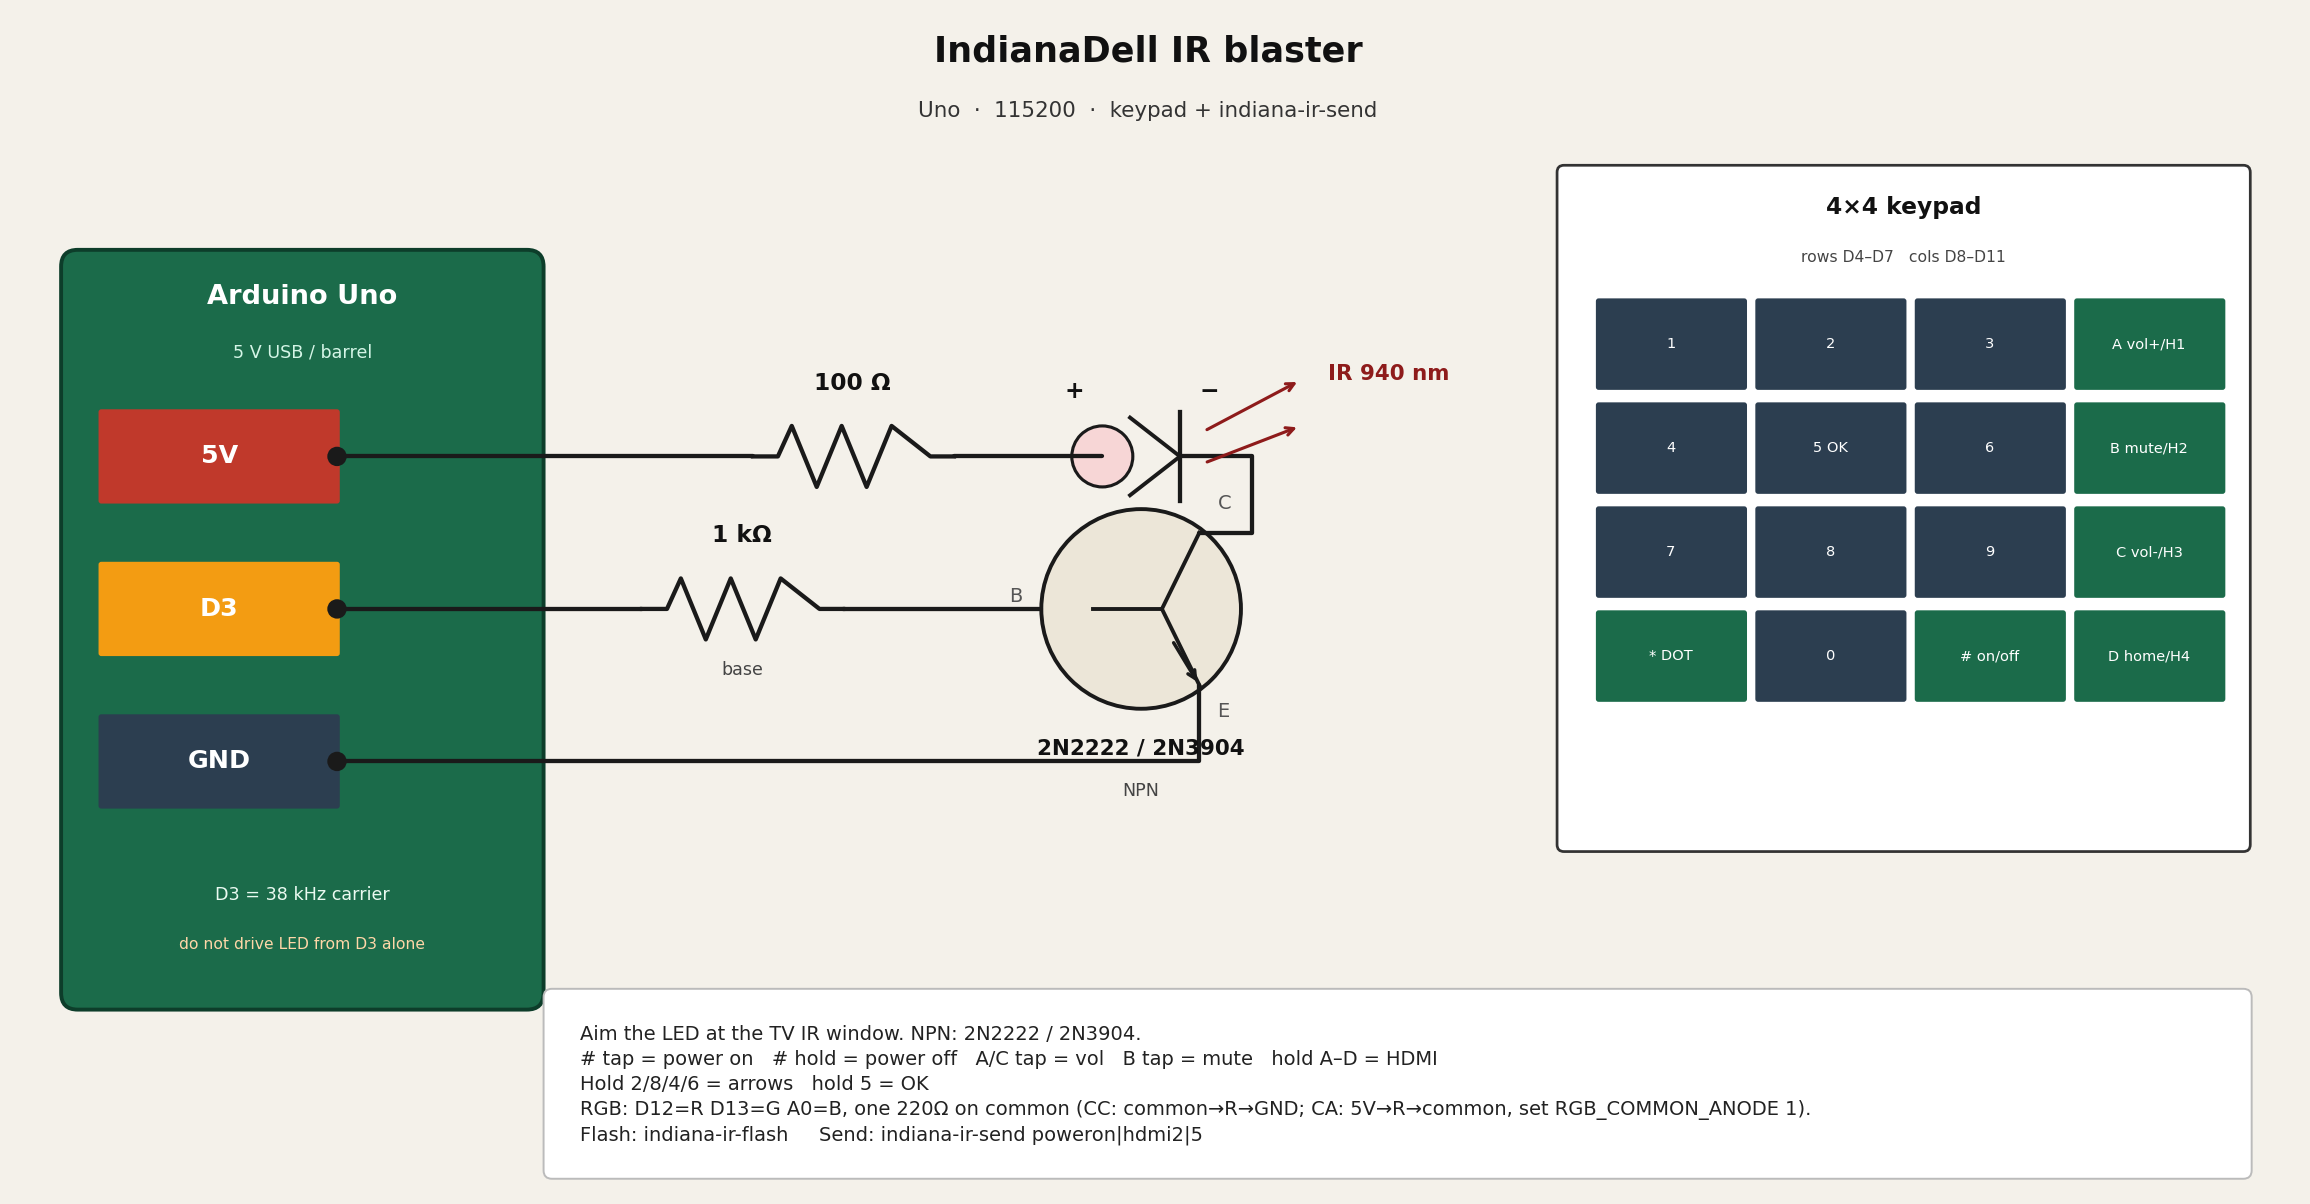
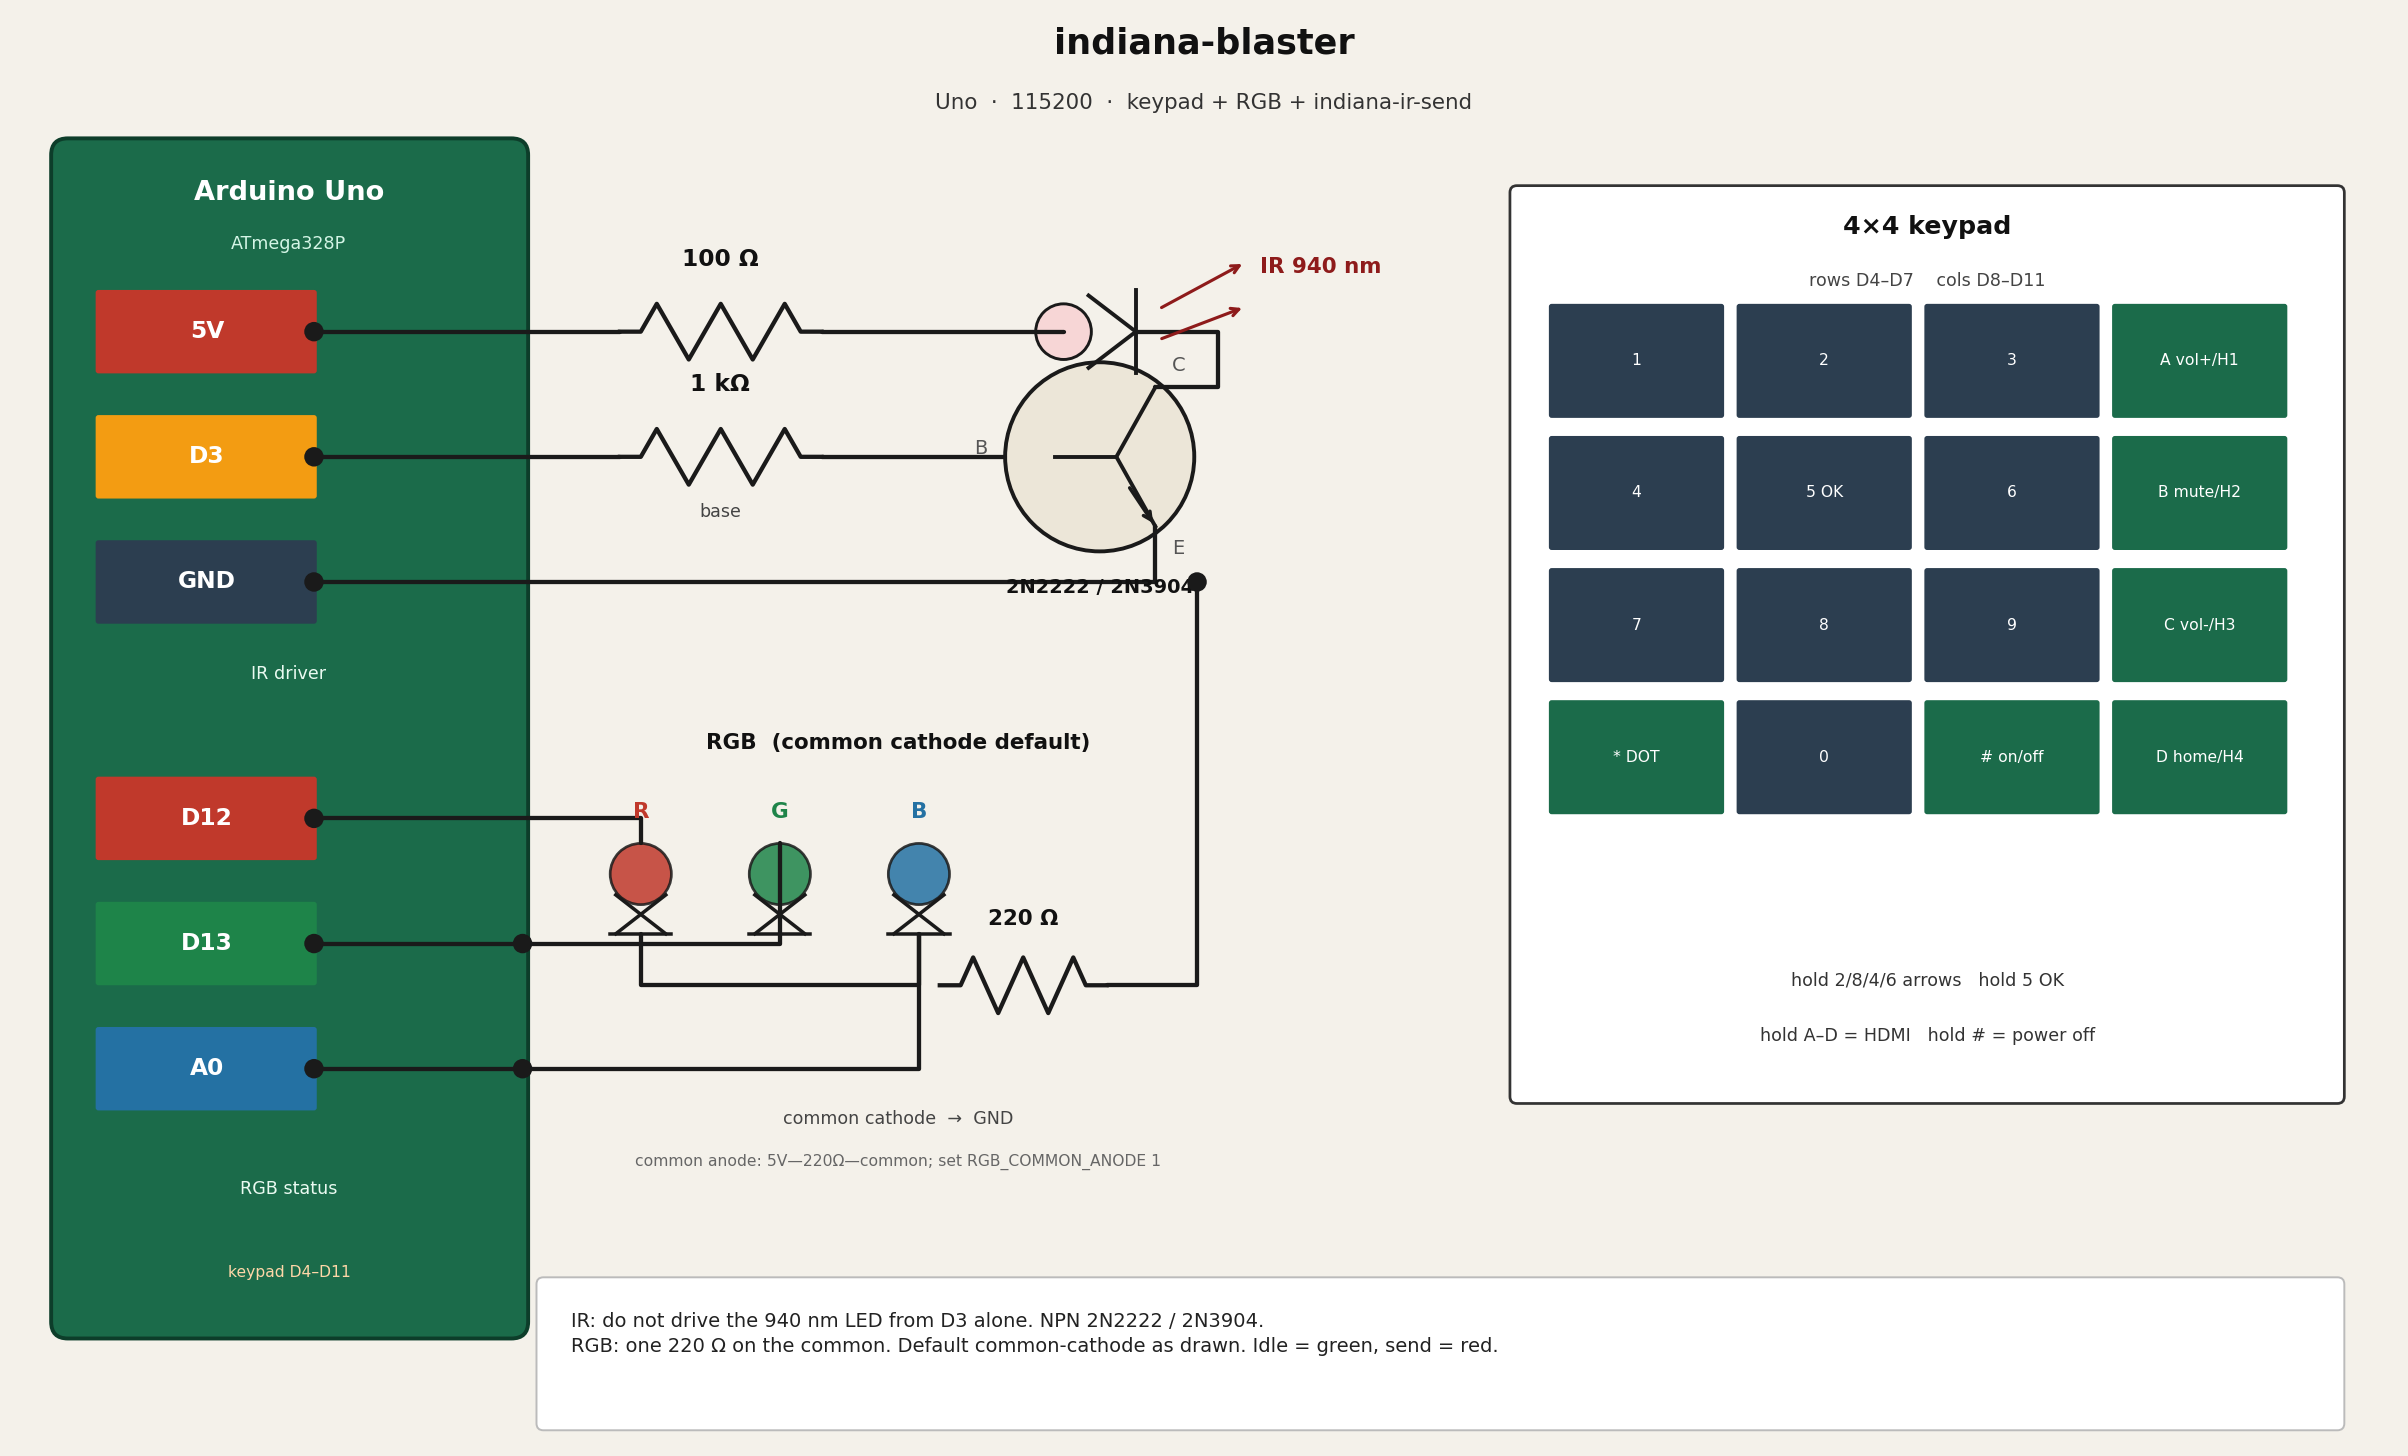
Draw RGB LED and 220 ohm common resistor on the schematic.
D12/D13/A0 to R/G/B, common cathode default.

diff --git a/ir-blaster/render-schematic.py b/ir-blaster/render-schematic.py
@@ -1,17 +1,16 @@
 #!/usr/bin/env python3
-"""Render ir-blaster-schematic.png (Uno + transistor IR LED)."""
+"""Render ir-blaster-schematic.png (IR LED + NPN, RGB, keypad)."""
 from pathlib import Path
 
 import matplotlib.pyplot as plt
-from matplotlib.patches import Circle, FancyBboxPatch, FancyArrowPatch, Rectangle
-from matplotlib.lines import Line2D
+from matplotlib.patches import Circle, FancyBboxPatch, Polygon, Rectangle
 
 OUT = Path(__file__).resolve().parent / "ir-blaster-schematic.png"
 
 
-def wire(ax, pts, **kw):
+def wire(ax, pts):
     xs, ys = zip(*pts)
-    ax.plot(xs, ys, color="#1a1a1a", lw=2.2, solid_capstyle="round", **kw)
+    ax.plot(xs, ys, color="#1a1a1a", lw=2.2, solid_capstyle="round", zorder=2)
 
 
 def node(ax, x, y):
@@ -25,127 +24,139 @@ def label(ax, x, y, text, **kw):
     ax.text(x, y, text, **kw)
 
 
+def zigzag(ax, x, y, n=5, w=1.45):
+    xs, ys = [x, x + 0.15], [y, y]
+    step = (w - 0.3) / n
+    for i in range(n):
+        xs.append(x + 0.15 + step * (i + 0.5))
+        ys.append(y + (0.2 if i % 2 == 0 else -0.2))
+    xs += [x + w - 0.15, x + w]
+    ys += [y, y]
+    ax.plot(xs, ys, color="#1a1a1a", lw=2.2)
+
+
+def pin(ax, x, y, name, col):
+    ax.add_patch(FancyBboxPatch((x - 0.4, y - 0.28), 1.55, 0.56, boxstyle="round,pad=0.02", fc=col, ec="none"))
+    label(ax, x + 0.38, y, name, ha="center", va="center", color="white", fontsize=12, fontweight="bold")
+    return x + 1.15, y
+
+
 def main():
-    fig, ax = plt.subplots(figsize=(16.5, 8.6), dpi=140)
-    ax.set_xlim(0, 16.5)
-    ax.set_ylim(0, 8.6)
+    fig, ax = plt.subplots(figsize=(17.2, 10.4), dpi=140)
+    ax.set_xlim(0, 17.2)
+    ax.set_ylim(0, 10.4)
     ax.set_aspect("equal")
     ax.axis("off")
     fig.patch.set_facecolor("#f4f1ea")
     ax.set_facecolor("#f4f1ea")
 
-    # Uno board
-    uno = FancyBboxPatch(
-        (0.4, 1.4),
-        3.4,
-        5.4,
-        boxstyle="round,pad=0.04,rounding_size=0.12",
-        facecolor="#1b6b4a",
-        edgecolor="#0d3d2a",
-        lw=2,
+    ax.add_patch(
+        FancyBboxPatch(
+            (0.35, 0.85),
+            3.35,
+            8.55,
+            boxstyle="round,pad=0.04,rounding_size=0.12",
+            facecolor="#1b6b4a",
+            edgecolor="#0d3d2a",
+            lw=2,
+        )
     )
-    ax.add_patch(uno)
-    label(ax, 2.1, 6.5, "Arduino Uno", ha="center", va="center", color="white", fontsize=14, fontweight="bold")
-    label(ax, 2.1, 6.1, "5 V USB / barrel", ha="center", va="center", color="#d4f5e6", fontsize=9)
+    label(ax, 2.02, 9.05, "Arduino Uno", ha="center", va="center", color="white", fontsize=14, fontweight="bold")
+    label(ax, 2.02, 8.68, "ATmega328P", ha="center", va="center", color="#d4f5e6", fontsize=9)
 
-    # Pin blocks
-    pins = [
-        (1.1, 5.35, "5V", "#c0392b"),
-        (1.1, 4.25, "D3", "#f39c12"),
-        (1.1, 3.15, "GND", "#2c3e50"),
-    ]
-    for x, y, name, col in pins:
-        ax.add_patch(FancyBboxPatch((x - 0.45, y - 0.32), 1.7, 0.64, boxstyle="round,pad=0.02", fc=col, ec="none"))
-        label(ax, x + 0.4, y, name, ha="center", va="center", color="white", fontsize=13, fontweight="bold")
+    p5v = pin(ax, 1.05, 8.05, "5V", "#c0392b")
+    pd3 = pin(ax, 1.05, 7.15, "D3", "#f39c12")
+    pgnd = pin(ax, 1.05, 6.25, "GND", "#2c3e50")
+    pr = pin(ax, 1.05, 4.55, "D12", "#c0392b")
+    pg = pin(ax, 1.05, 3.65, "D13", "#1e8449")
+    pb = pin(ax, 1.05, 2.75, "A0", "#2471a3")
+    node(ax, p5v[0], p5v[1])
+    node(ax, pd3[0], pd3[1])
+    node(ax, pgnd[0], pgnd[1])
+    node(ax, pr[0], pr[1])
+    node(ax, pg[0], pg[1])
+    node(ax, pb[0], pb[1])
+    label(ax, 2.02, 5.55, "IR driver", ha="center", color="#eafaf1", fontsize=9)
+    label(ax, 2.02, 1.85, "RGB status", ha="center", color="#eafaf1", fontsize=9)
+    label(ax, 2.02, 1.25, "keypad D4–D11", ha="center", color="#ffd7a8", fontsize=8)
 
-    label(ax, 2.1, 2.15, "D3 = 38 kHz carrier", ha="center", color="#eafaf1", fontsize=9)
-    label(ax, 2.1, 1.8, "do not drive LED from D3 alone", ha="center", color="#ffd7a8", fontsize=8)
+    # --- IR: 100Ω, LED, NPN ---
+    zigzag(ax, 4.4, 8.05)
+    label(ax, 5.12, 8.52, "100 Ω", ha="center", fontsize=12, fontweight="bold")
+    zigzag(ax, 4.4, 7.15)
+    label(ax, 5.12, 7.62, "1 kΩ", ha="center", fontsize=12, fontweight="bold")
+    label(ax, 5.12, 6.72, "base", ha="center", fontsize=9, color="#444")
 
-    # 1k base resistor (zigzag)
-    rx, ry = 4.55, 4.25
-    zig_x = [rx, rx + 0.18]
-    zig_y = [ry, ry]
-    for i in range(5):
-        zig_x.append(rx + 0.28 + i * 0.18)
-        zig_y.append(ry + (0.22 if i % 2 == 0 else -0.22))
-    zig_x += [rx + 1.28, rx + 1.45]
-    zig_y += [ry, ry]
-    ax.plot(zig_x, zig_y, color="#1a1a1a", lw=2.2)
-    label(ax, rx + 0.72, ry + 0.48, "1 kΩ", ha="center", fontsize=12, fontweight="bold")
-    label(ax, rx + 0.72, ry - 0.48, "base", ha="center", fontsize=9, color="#444")
-
-    # 100 ohm collector resistor
-    rx2, ry2 = 5.35, 5.35
-    zig_x = [rx2, rx2 + 0.18]
-    zig_y = [ry2, ry2]
-    for i in range(5):
-        zig_x.append(rx2 + 0.28 + i * 0.18)
-        zig_y.append(ry2 + (0.22 if i % 2 == 0 else -0.22))
-    zig_x += [rx2 + 1.28, rx2 + 1.45]
-    zig_y += [ry2, ry2]
-    ax.plot(zig_x, zig_y, color="#1a1a1a", lw=2.2)
-    label(ax, rx2 + 0.72, ry2 + 0.48, "100 Ω", ha="center", fontsize=12, fontweight="bold")
-
-    # Transistor 2N2222
-    tx, ty = 8.15, 4.25
-    ax.add_patch(Circle((tx, ty), 0.72, fc="#ece6d8", ec="#1a1a1a", lw=2))
-    # emitter / collector / base legs inside
-    ax.plot([tx - 0.35, tx + 0.15], [ty, ty], color="#1a1a1a", lw=2)
-    ax.plot([tx + 0.15, tx + 0.42], [ty, ty + 0.55], color="#1a1a1a", lw=2)
-    ax.plot([tx + 0.15, tx + 0.42], [ty, ty - 0.55], color="#1a1a1a", lw=2)
-    # emitter arrow
+    tx, ty = 7.85, 7.15
+    ax.add_patch(Circle((tx, ty), 0.68, fc="#ece6d8", ec="#1a1a1a", lw=2))
+    ax.plot([tx - 0.32, tx + 0.12], [ty, ty], color="#1a1a1a", lw=2)
+    ax.plot([tx + 0.12, tx + 0.4], [ty, ty + 0.5], color="#1a1a1a", lw=2)
+    ax.plot([tx + 0.12, tx + 0.4], [ty, ty - 0.5], color="#1a1a1a", lw=2)
     ax.annotate(
         "",
-        xy=(tx + 0.42, ty - 0.55),
-        xytext=(tx + 0.22, ty - 0.22),
+        xy=(tx + 0.4, ty - 0.5),
+        xytext=(tx + 0.2, ty - 0.2),
         arrowprops=dict(arrowstyle="->", color="#1a1a1a", lw=1.8),
     )
-    label(ax, tx, ty - 1.05, "2N2222 / 2N3904", ha="center", fontsize=11, fontweight="bold")
-    label(ax, tx, ty - 1.35, "NPN", ha="center", fontsize=9, color="#444")
-    label(ax, tx - 0.95, ty + 0.05, "B", fontsize=10, color="#555")
-    label(ax, tx + 0.55, ty + 0.72, "C", fontsize=10, color="#555")
-    label(ax, tx + 0.55, ty - 0.78, "E", fontsize=10, color="#555")
+    label(ax, tx, ty - 0.98, "2N2222 / 2N3904", ha="center", fontsize=10, fontweight="bold")
+    label(ax, tx - 0.9, ty + 0.02, "B", fontsize=10, color="#555")
+    label(ax, tx + 0.52, ty + 0.62, "C", fontsize=10, color="#555")
+    label(ax, tx + 0.52, ty - 0.7, "E", fontsize=10, color="#555")
 
-    # IR LED
-    lx, ly = 8.15, 5.35
-    ax.add_patch(Circle((lx - 0.28, ly), 0.22, fc="#f7d6d6", ec="#1a1a1a", lw=1.6))
-    ax.plot([lx - 0.08, lx + 0.28], [ly + 0.28, ly], color="#1a1a1a", lw=2)
-    ax.plot([lx - 0.08, lx + 0.28], [ly - 0.28, ly], color="#1a1a1a", lw=2)
-    ax.plot([lx + 0.28, lx + 0.28], [ly - 0.32, ly + 0.32], color="#1a1a1a", lw=2.2)
-    # IR arrows
-    ax.annotate("", xy=(lx + 1.15, ly + 0.55), xytext=(lx + 0.45, ly + 0.18),
+    lx, ly = 7.85, 8.05
+    ax.add_patch(Circle((lx - 0.26, ly), 0.2, fc="#f7d6d6", ec="#1a1a1a", lw=1.5))
+    ax.plot([lx - 0.08, lx + 0.26], [ly + 0.26, ly], color="#1a1a1a", lw=2)
+    ax.plot([lx - 0.08, lx + 0.26], [ly - 0.26, ly], color="#1a1a1a", lw=2)
+    ax.plot([lx + 0.26, lx + 0.26], [ly - 0.3, ly + 0.3], color="#1a1a1a", lw=2)
+    ax.annotate("", xy=(lx + 1.05, ly + 0.5), xytext=(lx + 0.42, ly + 0.16),
                 arrowprops=dict(arrowstyle="->", color="#8e1b1b", lw=1.6))
-    ax.annotate("", xy=(lx + 1.15, ly + 0.22), xytext=(lx + 0.45, ly - 0.05),
+    ax.annotate("", xy=(lx + 1.05, ly + 0.18), xytext=(lx + 0.42, ly - 0.06),
                 arrowprops=dict(arrowstyle="->", color="#8e1b1b", lw=1.6))
-    label(ax, lx + 1.35, ly + 0.55, "IR 940 nm", fontsize=11, fontweight="bold", color="#8e1b1b")
-    label(ax, lx - 0.55, ly + 0.42, "+", fontsize=12, fontweight="bold")
-    label(ax, lx + 0.42, ly + 0.42, "−", fontsize=12, fontweight="bold")
+    label(ax, lx + 1.15, ly + 0.42, "IR 940 nm", fontsize=11, fontweight="bold", color="#8e1b1b")
 
-    # Wires
-    # 5V to 100R
-    wire(ax, [(2.35, 5.35), (5.35, 5.35)])
-    node(ax, 2.35, 5.35)
-    # 100R to LED anode
-    wire(ax, [(6.80, 5.35), (7.87, 5.35)])
-    # LED cathode down to collector
-    wire(ax, [(8.43, 5.35), (8.95, 5.35), (8.95, 4.80), (tx + 0.42, ty + 0.55)])
-    # D3 to 1k
-    wire(ax, [(2.35, 4.25), (4.55, 4.25)])
-    node(ax, 2.35, 4.25)
-    # 1k to base
-    wire(ax, [(6.00, 4.25), (tx - 0.72, 4.25)])
-    # emitter to GND rail
-    wire(ax, [(tx + 0.42, ty - 0.55), (tx + 0.42, 3.15), (2.35, 3.15)])
-    node(ax, 2.35, 3.15)
+    wire(ax, [(p5v[0], p5v[1]), (4.4, 8.05)])
+    wire(ax, [(5.85, 8.05), (7.59, 8.05)])
+    wire(ax, [(8.11, 8.05), (8.7, 8.05), (8.7, 7.65), (tx + 0.4, ty + 0.5)])
+    wire(ax, [(pd3[0], pd3[1]), (4.4, 7.15)])
+    wire(ax, [(5.85, 7.15), (tx - 0.68, 7.15)])
+    wire(ax, [(tx + 0.4, ty - 0.5), (tx + 0.4, 6.25), (pgnd[0], pgnd[1])])
 
-    # Title + notes
-    label(ax, 8.2, 8.2, "IndianaDell IR blaster", ha="center", fontsize=18, fontweight="bold")
-    label(ax, 8.2, 7.8, "Uno  ·  115200  ·  keypad + indiana-ir-send", ha="center", fontsize=11, color="#333")
+    # --- RGB common-cathode, one 220Ω ---
+    label(ax, 6.4, 5.05, "RGB  (common cathode default)", ha="center", fontsize=11, fontweight="bold")
+    colors = [
+        (4.55, "#c0392b", "R"),
+        (5.55, "#1e8449", "G"),
+        (6.55, "#2471a3", "B"),
+    ]
+    for x, col, name in colors:
+        ax.add_patch(Circle((x, 4.15), 0.22, fc=col, ec="#1a1a1a", lw=1.4, alpha=0.85))
+        ax.plot([x - 0.18, x + 0.18], [4.0, 3.72], color="#1a1a1a", lw=1.8)
+        ax.plot([x + 0.18, x - 0.18], [4.0, 3.72], color="#1a1a1a", lw=1.8)
+        ax.plot([x - 0.22, x + 0.22], [3.72, 3.72], color="#1a1a1a", lw=1.8)
+        label(ax, x, 4.55, name, ha="center", fontsize=11, fontweight="bold", color=col)
+    # anodes up to pins
+    wire(ax, [(pr[0], pr[1]), (4.55, 4.55), (4.55, 4.37)])
+    wire(ax, [(pg[0], pg[1]), (3.7, 3.65), (5.55, 3.65), (5.55, 4.37)])
+    node(ax, 3.7, 3.65)
+    wire(ax, [(pb[0], pb[1]), (3.7, 2.75), (6.55, 2.75), (6.55, 3.72)])
+    node(ax, 3.7, 2.75)
+    # common cathode bus
+    wire(ax, [(4.55, 3.72), (4.55, 3.35), (6.55, 3.35), (6.55, 3.72)])
+    zigzag(ax, 6.7, 3.35, w=1.2)
+    label(ax, 7.3, 3.78, "220 Ω", ha="center", fontsize=11, fontweight="bold")
+    wire(ax, [(7.9, 3.35), (8.55, 3.35), (8.55, 6.25)])
+    node(ax, 8.55, 6.25)
+    label(ax, 6.4, 2.35, "common cathode  →  GND", ha="center", fontsize=9, color="#444")
+    label(ax, 6.4, 2.05, "common anode: 5V—220Ω—common; set RGB_COMMON_ANODE 1", ha="center", fontsize=8, color="#666")
+
+    # Title
+    label(ax, 8.6, 10.05, "indiana-blaster", ha="center", fontsize=18, fontweight="bold")
+    label(ax, 8.6, 9.65, "Uno  ·  115200  ·  keypad + RGB + indiana-ir-send", ha="center", fontsize=11, color="#333")
 
     # Keypad
-    ax.add_patch(FancyBboxPatch((11.2, 2.55), 4.9, 4.85, boxstyle="round,pad=0.05", fc="#fff", ec="#333", lw=1.4))
-    label(ax, 13.65, 7.1, "4×4 keypad", ha="center", fontsize=12, fontweight="bold")
-    label(ax, 13.65, 6.75, "rows D4–D7   cols D8–D11", ha="center", fontsize=8, color="#444")
+    ax.add_patch(FancyBboxPatch((10.85, 2.55), 5.9, 6.5, boxstyle="round,pad=0.05", fc="#fff", ec="#333", lw=1.4))
+    label(ax, 13.8, 8.75, "4×4 keypad", ha="center", fontsize=13, fontweight="bold")
+    label(ax, 13.8, 8.38, "rows D4–D7    cols D8–D11", ha="center", fontsize=9, color="#444")
     cells = [
         ("1", "2", "3", "A vol+/H1"),
         ("4", "5 OK", "6", "B mute/H2"),
@@ -154,23 +165,23 @@ def main():
     ]
     for r, row in enumerate(cells):
         for c, txt in enumerate(row):
-            x = 11.45 + c * 1.15
-            y = 5.85 - r * 0.75
+            x = 11.1 + c * 1.35
+            y = 7.45 - r * 0.95
             col = "#1b6b4a" if c == 3 or (r == 3 and c in (0, 2)) else "#2c3e50"
-            ax.add_patch(FancyBboxPatch((x, y), 1.05, 0.62, boxstyle="round,pad=0.02", fc=col, ec="none"))
-            label(ax, x + 0.52, y + 0.31, txt, ha="center", va="center", color="white", fontsize=7.5)
+            ax.add_patch(FancyBboxPatch((x, y), 1.22, 0.78, boxstyle="round,pad=0.02", fc=col, ec="none"))
+            label(ax, x + 0.61, y + 0.39, txt, ha="center", va="center", color="white", fontsize=8)
+
+    label(ax, 13.8, 3.35, "hold 2/8/4/6 arrows   hold 5 OK", ha="center", fontsize=9, color="#333")
+    label(ax, 13.8, 2.95, "hold A–D = HDMI   hold # = power off", ha="center", fontsize=9, color="#333")
 
     notes = (
-        "Aim the LED at the TV IR window. NPN: 2N2222 / 2N3904.\n"
-        "# tap = power on   # hold = power off   A/C tap = vol   B tap = mute   hold A–D = HDMI\n"
-        "Hold 2/8/4/6 = arrows   hold 5 = OK\n"
-        "RGB: D12=R D13=G A0=B, one 220Ω on common (CC: common→R→GND; CA: 5V→R→common, set RGB_COMMON_ANODE 1).\n"
-        "Flash: indiana-ir-flash     Send: indiana-ir-send poweron|hdmi2|5"
+        "IR: do not drive the 940 nm LED from D3 alone. NPN 2N2222 / 2N3904.\n"
+        "RGB: one 220 Ω on the common. Default common-cathode as drawn. Idle = green, send = red."
     )
-    ax.add_patch(FancyBboxPatch((3.9, 0.2), 12.2, 1.25, boxstyle="round,pad=0.06", fc="#fff", ec="#bbb", lw=1))
-    ax.text(4.1, 1.25, notes, va="top", fontsize=10, fontfamily="DejaVu Sans", color="#222", linespacing=1.4)
+    ax.add_patch(FancyBboxPatch((3.85, 0.2), 12.9, 1.0, boxstyle="round,pad=0.05", fc="#fff", ec="#bbb", lw=1))
+    ax.text(4.05, 1.0, notes, va="top", fontsize=10, fontfamily="DejaVu Sans", color="#222", linespacing=1.4)
 
-    fig.tight_layout(pad=0.3)
+    fig.tight_layout(pad=0.25)
     fig.savefig(OUT, dpi=140, facecolor=fig.get_facecolor())
     plt.close()
     print(OUT)
